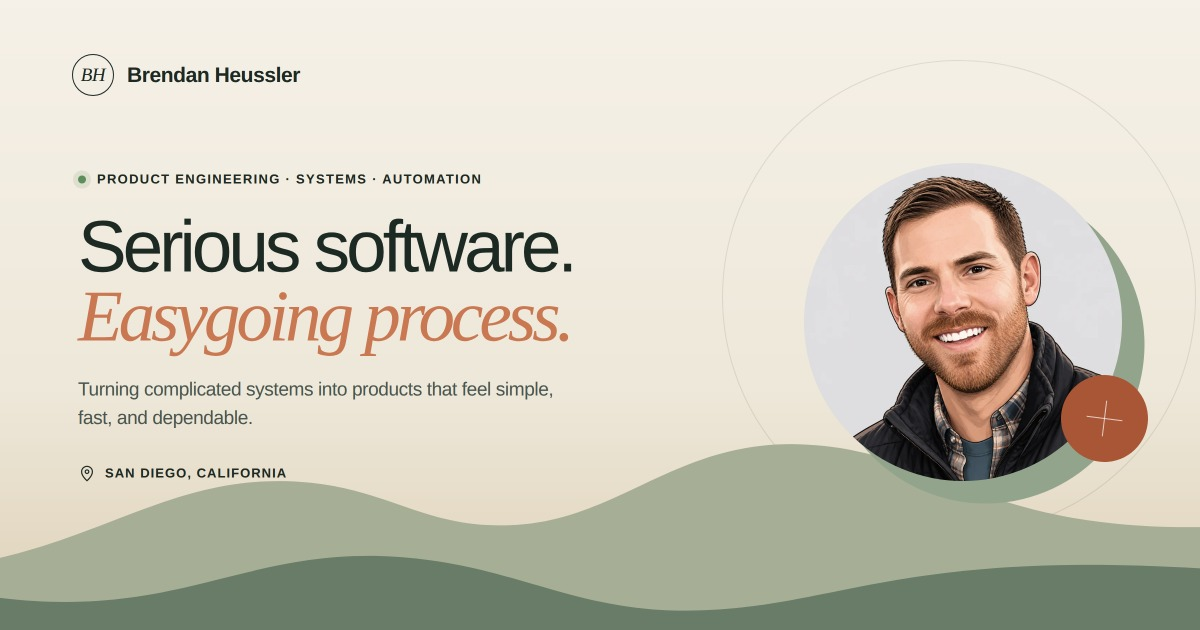
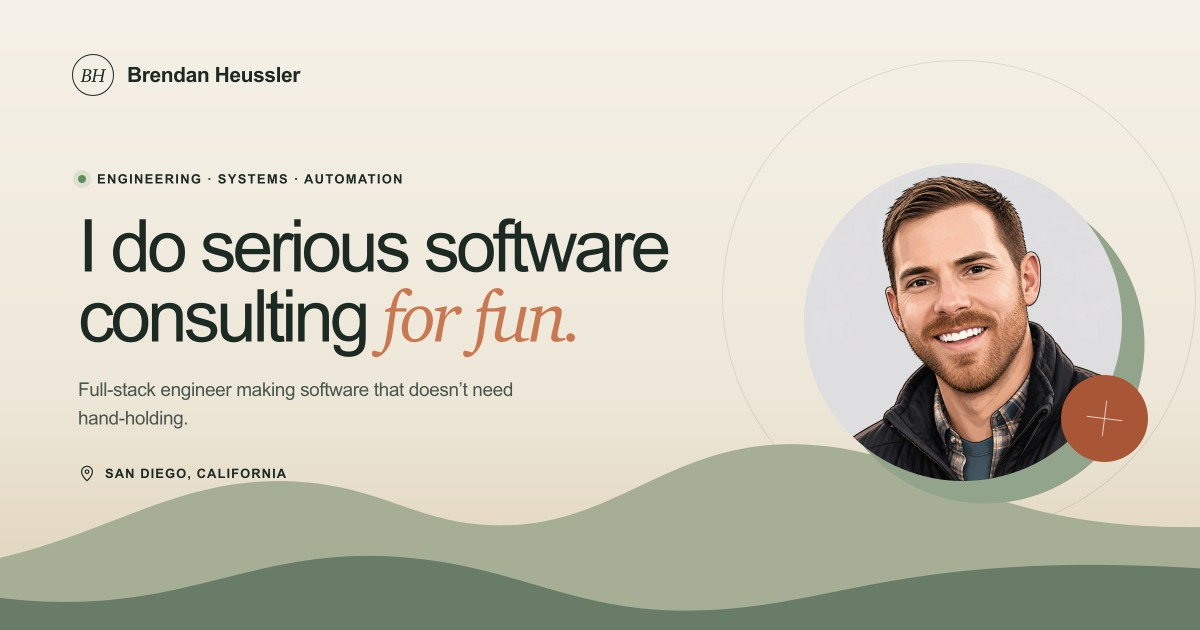
plug in new copy

diff --git a/src/App.jsx b/src/App.jsx
@@ -40,10 +40,9 @@ const TurboTaxVisual = () => (
       </div>
       <div className="tt-list">
         <span className="mini-label">LOCAL TAX HELP</span>
-        <strong>Find an expert nearby</strong>
+        <strong>An easy way to find an expert nearby</strong>
         <span className="skeleton skeleton--long" />
         <span className="skeleton skeleton--short" />
-        <span className="tt-button">Schedule</span>
       </div>
     </div>
   </div>
@@ -210,9 +209,10 @@ const ContactForm = () => {
       onFocus={() => prepareChallenge().catch(() => {})}
       onPointerDown={() => prepareChallenge().catch(() => {})}
     >
+      <p className="section-kicker form-kicker">Go on, tell me</p>
       <div className="form-row">
         <label>
-          <span>Name</span>
+          <span>Your name</span>
           <input type="text" name="name" autoComplete="name" maxLength="100" required />
         </label>
         <label>
@@ -221,11 +221,11 @@ const ContactForm = () => {
         </label>
       </div>
       <label>
-        <span>Company <em>optional</em></span>
+        <span>Your company <em>optional</em></span>
         <input type="text" name="company" autoComplete="organization" maxLength="120" />
       </label>
       <label>
-        <span>What are you working on?</span>
+        <span>Your project</span>
         <textarea name="message" rows="5" minLength="20" maxLength="5000" required />
       </label>
       <label className="form-trap" aria-hidden="true">
@@ -234,7 +234,7 @@ const ContactForm = () => {
       </label>
       <div className="form-submit-row">
         <button className="button button--light" type="submit" disabled={status.type === "working"}>
-          {status.type === "working" ? "Sending…" : "Send message"} <Arrow />
+          {status.type === "working" ? "Sending…" : "Send it"} <Arrow />
         </button>
         <p className={`form-status form-status--${status.type}`} aria-live="polite">
           {status.message}
@@ -266,18 +266,17 @@ export default function App() {
           <div className="hero-inner">
             <div className="availability reveal reveal--one">
               <span className="availability-dot" />
-              Product engineering · Systems · Automation
+              Engineering · Systems · Automation
             </div>
-            <h1 id="hero-title" className="reveal reveal--two">Serious software.<br /><em>Easygoing process.</em></h1>
+            <h1 id="hero-title" className="reveal reveal--two">I do serious software consulting <em>for fun.</em></h1>
             <p className="hero-lede reveal reveal--three">
-              I’m Brendan, a software consultant who turns complicated systems into products that feel simple, fast, and dependable.
+              I’m Brendan, a full-stack engineer obsessed with making software that doesn’t need hand-holding. So I launch seaworthy apps—and sometimes actual boats—in and around San Diego, CA.
             </p>
             <div className="hero-actions reveal reveal--four">
-              <a className="button button--primary" href="#contact">Tell me what you’re building <Arrow /></a>
-              <a className="text-link" href="#work">See selected work <span>↓</span></a>
+              <a className="button button--primary" href="#contact">Work with me <Arrow /></a>
+              <a className="text-link" href="#work">Explore my work <span>↓</span></a>
             </div>
           </div>
-          <div className="hero-location reveal reveal--four"><LocationMark /> San Diego, California</div>
         </section>
 
         <ul className="intro-band" aria-label="What I do">
@@ -290,22 +289,22 @@ export default function App() {
         <section className="work-section" id="work" aria-labelledby="work-title">
           <div className="section-heading">
             <div>
-              <span className="section-kicker">Selected work</span>
-              <h2 id="work-title">Built for people.<br />Engineered to scale.</h2>
+              <span className="section-kicker">What I work on</span>
+              <h2 id="work-title">Web platforms of all sizes<br />for real people of all kinds.</h2>
             </div>
-            <p>From high-traffic customer experiences to focused products, I care about the invisible details that make software hold up.</p>
+            <p>I build everything from high-traffic customer interfaces to hyper-focused personal experiences. And what I care about most is making every one feel flawless.</p>
           </div>
 
           <div className="work-group">
-            <div className="group-label"><span>01</span> Professional work</div>
+            <div className="group-label"><span>01</span> Projects I’ve led</div>
             <ul className="project-grid">
               <ProjectCard
                 number="01"
-                eyebrow="Intuit · TurboTax"
-                title="Local tax help, at national scale."
-                description="A scalable local discovery platform for hundreds of TurboTax stores and thousands of expert profiles—connecting customers with trusted tax help nearby."
+                eyebrow="Intuit · Store locator"
+                title="Behind the scenes of national storefronts."
+                description="What you see: a discovery platform for hundreds of TurboTax stores and thousands of expert profiles. What you don’t: the data that powers it."
                 href="https://turbotax.intuit.com/local-tax-offices/ny/new-york/d51a4afe6691489aa78ee8793a6bc278/"
-                linkLabel="View a live location"
+                linkLabel="See the site"
                 className="project-card--wide"
               >
                 <TurboTaxVisual />
@@ -313,11 +312,11 @@ export default function App() {
 
               <ProjectCard
                 number="02"
-                eyebrow="Certified Pickleball Player"
-                title="A digital home for a fast-growing sport."
-                description="A player platform combining verified credentials, personalized gear, community discovery, and AI-powered match analysis."
+                eyebrow="Certified Pickleball"
+                title="A place for athletes to meet their match."
+                description="This is the hub that gives pickleball players what every fanatic wants: personalized gear, AI-powered match analyses, community access, and proof they’re at the top of their game."
                 href="https://www.certifiedpickleballplayer.com/"
-                linkLabel="Visit the product"
+                linkLabel="Tour the court"
               >
                 <PickleballVisual />
               </ProjectCard>
@@ -325,15 +324,15 @@ export default function App() {
           </div>
 
           <div className="work-group work-group--personal">
-            <div className="group-label"><span>02</span> Personal work</div>
+            <div className="group-label"><span>02</span> Platforms I’ve built</div>
             <ul className="project-grid project-grid--reverse">
               <ProjectCard
                 number="03"
-                eyebrow="Abraham · Trading Algorithm"
-                title="A trading algorithm built on evidence, not instinct."
-                description="An algorithmic trading system that beats the S&amp;P 500 in historical testing, backed by reproducible research and disciplined risk controls."
+                eyebrow="Abraham · Trading"
+                title="A trading system that shows its work."
+                description="Backed by reproducible research and disciplined risk controls, this algorithm uses evidence to beat (basically) every hunch about the S&amp;P 500."
                 href="#contact"
-                linkLabel="Contact me to learn more"
+                linkLabel="Ask for details"
                 className="project-card--contact"
               >
                 <AbrahamVisual />
@@ -341,11 +340,11 @@ export default function App() {
 
               <ProjectCard
                 number="04"
-                eyebrow="GuiltySpark · AI Operations"
+                eyebrow="AI Operations"
                 title="The log monitor that fixes what it finds."
-                description="An autonomous engineering agent that watches production logs, finds bugs in context, and turns incidents into tested fixes."
+                description="With the help of an autonomous engineering agent that watches production logs, finds bugs in context, and corrects errors on sight, you can finally close your eyes."
                 href="https://guiltyspark.builtbybrendan.com/"
-                linkLabel="Explore GuiltySpark"
+                linkLabel="Check it out"
                 className="project-card--wide"
               >
                 <GuiltySparkVisual />
@@ -361,14 +360,15 @@ export default function App() {
             <span className="photo-sun" aria-hidden="true" />
           </div>
           <div className="about-copy">
-            <span className="section-kicker">A little about me</span>
-            <h2 id="about-title">Calm thinking for complicated builds.</h2>
-            <p className="about-lede">I’m a full-stack engineer and consultant based in San Diego, California.</p>
-            <p>I’ve spent my career building software people depend on—from customer experiences at Intuit to lean, ambitious products. I’m at my best when the problem is messy, the stakes are real, and the path forward needs equal parts technical depth and common sense.</p>
+            <span className="section-kicker">A bit about me</span>
+            <h2 id="about-title">A full-stack engineer for your wildest projects.</h2>
+            <p className="about-lede">My friends call me Moose. And when your project is a bear, you need big ideas.</p>
+            <p>That’s why I spend my time building software with the kind of strength, speed, and stealth that’ll surprise you.</p>
+            <p className="section-kicker values-kicker">Rules I play by</p>
             <ul className="about-values">
-              <li><span>01</span><strong>Clear over clever</strong><p>Simple systems are easier to ship, run, and trust.</p></li>
-              <li><span>02</span><strong>Steady under pressure</strong><p>No drama. Just thoughtful decisions and consistent progress.</p></li>
-              <li><span>03</span><strong>Built to last</strong><p>Good architecture should create options, not obligations.</p></li>
+              <li><strong>Look good</strong><p>I think the systems we’re happiest to ship, run, and trust are the ones that are easiest on the eyes.</p></li>
+              <li><strong>Go fast</strong><p>Making consistent, thoughtful decisions can make even the most complex projects feel uncomplicated.</p></li>
+              <li><strong>Hold tight</strong><p>I pay attention to the details that seem small, but add up to a structure scalable products can stand on.</p></li>
             </ul>
           </div>
         </section>
@@ -382,9 +382,9 @@ export default function App() {
           <div className="contact-grid">
             <div className="contact-copy">
               <span className="section-kicker">Contact me</span>
-              <h2 id="contact-title">Let’s make something<br /><em>solid and useful.</em></h2>
-              <p>Tell me a little about the project, the knot you’re trying to untangle, or the idea you can’t quite leave alone.</p>
-              <span className="contact-location"><LocationMark /> San Diego · Working with good people everywhere</span>
+              <h2 id="contact-title">Let’s build the software <em>of your dreams.</em></h2>
+              <p>Tell me a little about the knot you’re trying to untangle, the product you can’t stop thinking about, or the idea you just know the world needs. I’ll take you seriously.</p>
+              <span className="contact-location"><LocationMark /> Based in California · Working with you</span>
             </div>
             <ContactForm />
           </div>

diff --git a/src/styles/site.css b/src/styles/site.css
@@ -88,7 +88,7 @@ svg { display: block; }
   border-radius: 50%;
 }
 
-.hero-inner { position: relative; z-index: 5; max-width: 1440px; margin: 0 auto; padding: clamp(175px, 21vh, 245px) 5vw 0; }
+.hero-inner { position: relative; z-index: 5; max-width: 1440px; margin: 0 auto; padding: clamp(145px, 17vh, 215px) 5vw 0; }
 
 .availability { display: flex; align-items: center; gap: 10px; width: max-content; margin-bottom: 28px; font-size: 12px; font-weight: 600; letter-spacing: .1em; text-transform: uppercase; }
 .availability-dot { width: 7px; height: 7px; border-radius: 50%; background: #5e8e5b; box-shadow: 0 0 0 5px rgba(94, 142, 91, .13); }
@@ -108,13 +108,10 @@ h1, h2, h3, p { margin-top: 0; }
 .text-link span { transition: transform .2s ease; }
 .text-link:hover span { transform: translateY(3px); }
 
-.hero-location { position: absolute; z-index: 5; right: 5vw; bottom: 40px; display: flex; align-items: center; gap: 8px; font-size: 12px; font-weight: 600; letter-spacing: .08em; text-transform: uppercase; }
-.hero-location svg { width: 17px; height: 17px; fill: none; stroke: currentColor; stroke-width: 1.3; }
-
 .landscape { position: absolute; inset: 0; pointer-events: none; }
 .sun { position: absolute; width: clamp(115px, 12vw, 180px); height: clamp(115px, 12vw, 180px); right: 13%; bottom: 21%; border-radius: 50%; background: #d5a468; box-shadow: 0 0 70px rgba(213, 164, 104, .22); }
 .hills { position: absolute; left: 0; width: 100%; }
-.hills--back { bottom: 0; height: 41%; fill: #a7ae96; }
+.hills--back { bottom: 0; height: 35%; fill: #a7ae96; }
 .hills--front { bottom: -3%; height: 31%; fill: #687c68; }
 .trail { position: absolute; right: 9%; bottom: -13%; width: 34%; height: 35%; background: #d2bc91; transform: skewX(-28deg) rotate(-5deg); border-radius: 50% 0 0; opacity: .7; }
 
@@ -169,7 +166,6 @@ a.project-card:hover .project-link svg { transform: translate(3px, -3px); }
 .mini-label { margin-bottom: 20px; color: #6d6d6d; font-size: 8px; letter-spacing: .14em; }
 .tt-list strong { max-width: 190px; margin-bottom: 25px; font-size: clamp(22px, 2vw, 34px); line-height: 1.05; letter-spacing: -.05em; }
 .skeleton { display: block; height: 5px; margin: 0 0 8px; background: #deddd8; }.skeleton--long { width: 90%; }.skeleton--short { width: 62%; }
-.tt-button { width: max-content; margin-top: 24px; padding: 8px 18px; border-radius: 4px; background: #ca292e; color: white; font-size: 9px; font-weight: 600; }
 
 .pickleball-visual { background: #aebc45; }
 .court-lines { position: absolute; inset: 24px; border: 2px solid rgba(247,244,223,.75); }
@@ -210,9 +206,9 @@ a.project-card:hover .project-link svg { transform: translate(3px, -3px); }
 .about-copy h2 { margin-bottom: 35px; }
 .about-copy > p { max-width: 620px; color: #4c5a51; }
 .about-copy .about-lede { color: var(--ink); font-size: 21px; line-height: 1.55; letter-spacing: -.025em; }
-.about-values { display: grid; grid-template-columns: repeat(3, 1fr); gap: 0; margin: 55px 0 0; padding: 0; list-style: none; border-top: 1px solid rgba(29,42,36,.22); }
+.values-kicker { margin: 55px 0 18px; }
+.about-values { display: grid; grid-template-columns: repeat(3, 1fr); gap: 0; margin: 0; padding: 0; list-style: none; border-top: 1px solid rgba(29,42,36,.22); }
 .about-values > li { padding: 22px 20px 0 0; }.about-values > li + li { padding-left: 20px; border-left: 1px solid rgba(29,42,36,.22); }
-.about-values span { display: block; margin-bottom: 35px; color: #59655c; font-family: var(--serif); font-style: italic; }
 .about-values strong { display: block; margin-bottom: 8px; font-size: 14px; }
 .about-values p { margin: 0; color: #505c53; font-size: 12px; line-height: 1.5; }
 
@@ -227,6 +223,7 @@ a.project-card:hover .project-link svg { transform: translate(3px, -3px); }
 .contact-location svg { width: 17px; height: 17px; fill: none; stroke: currentColor; stroke-width: 1.3; }
 .button--light { background: #f6f0e5; color: var(--forest); }.button--light:hover { background: var(--sand); }
 .contact-form { position: relative; padding: 36px; border: 1px solid rgba(231,236,230,.18); background: rgba(15,29,22,.3); backdrop-filter: blur(10px); }
+.contact-form .form-kicker { margin: 0 0 26px; }
 .contact-form label { display: block; margin-bottom: 22px; }
 .contact-form label > span { display: flex; justify-content: space-between; margin-bottom: 7px; color: #d8ded8; font-size: 11px; font-weight: 600; letter-spacing: .08em; text-transform: uppercase; }
 .contact-form label > span em { color: #a5b0a8; font-style: normal; font-weight: 400; }
@@ -243,7 +240,7 @@ a.project-card:hover .project-link svg { transform: translate(3px, -3px); }
 .form-note { margin: 24px 0 0; color: #87948b; font-size: 10px; }
 .contact-landscape { position: absolute; inset: 0; opacity: .7; }
 .contact-sun { position: absolute; top: 19%; right: 12%; width: 120px; height: 120px; border: 1px solid rgba(215,183,131,.4); border-radius: 50%; }
-.contact-hill { position: absolute; bottom: -42%; width: 80%; height: 70%; border: 1px solid rgba(184,194,174,.15); border-radius: 50% 50% 0 0; }
+.contact-hill { position: absolute; bottom: -50%; width: 80%; height: 70%; border: 1px solid rgba(184,194,174,.15); border-radius: 50% 50% 0 0; }
 .contact-hill--one { left: -20%; transform: rotate(9deg); }.contact-hill--two { right: -24%; transform: rotate(-8deg); }
 
 footer { display: flex; align-items: center; justify-content: space-between; min-height: 110px; padding: 25px 5vw; background: #17221d; color: #d8ded8; font-size: 11px; }
@@ -257,7 +254,6 @@ footer > div { display: flex; align-items: center; gap: 22px; } footer > div a:h
   .hero-inner { padding-top: 190px; }
   .hero h1 { font-size: clamp(56px, 11vw, 90px); }
   .sun { right: 8%; bottom: 19%; }
-  .hero-location { bottom: 25px; }
   .intro-band { flex-wrap: wrap; gap: 14px 19px; }
   .section-heading { grid-template-columns: 1fr; gap: 30px; margin-bottom: 80px; }
   .project-grid, .project-grid--reverse { grid-template-columns: 1fr; }
@@ -267,7 +263,6 @@ footer > div { display: flex; align-items: center; gap: 22px; } footer > div a:h
   .about-photo-wrap { --portrait-size: 230px; margin-top: 54px; }
   .about-values { grid-template-columns: 1fr; }
   .about-values > li, .about-values > li + li { padding: 16px 0; border-left: 0; border-bottom: 1px solid rgba(29,42,36,.16); }
-  .about-values span { display: inline-block; margin: 0 12px 0 0; }
   .contact-grid { grid-template-columns: 1fr; gap: 65px; }
   .contact-form { max-width: 620px; }
 }
@@ -282,7 +277,6 @@ footer > div { display: flex; align-items: center; gap: 22px; } footer > div a:h
   .hero h1 { font-size: clamp(51px, 16vw, 76px); line-height: .91; }
   .hero-lede { max-width: 92%; font-size: 17px; }
   .hero-actions { align-items: flex-start; flex-direction: column; gap: 20px; }
-  .hero-location { left: 22px; right: auto; font-size: 10px; }
   .sun { width: 94px; height: 94px; bottom: 14%; }
   .hills--back { height: 28%; }.hills--front { height: 21%; }
   .trail { height: 23%; }

diff --git a/index.html b/index.html
@@ -9,7 +9,7 @@
     <link rel="canonical" href="https://builtbybrendan.com/" />
     <meta name="author" content="Brendan Heussler" />
     <meta property="og:title" content="Brendan Heussler — Software Consultant" />
-    <meta property="og:description" content="Serious software. Easygoing process. Built in San Diego, California." />
+    <meta property="og:description" content="I do serious software consulting for fun. Built in San Diego, California." />
     <meta property="og:type" content="website" />
     <meta property="og:url" content="https://builtbybrendan.com/" />
     <meta property="og:site_name" content="Brendan Heussler" />
@@ -18,12 +18,12 @@
     <meta property="og:image:type" content="image/jpeg" />
     <meta property="og:image:width" content="1200" />
     <meta property="og:image:height" content="630" />
-    <meta property="og:image:alt" content="Brendan Heussler, software consultant in San Diego, California. Serious software. Easygoing process." />
+    <meta property="og:image:alt" content="Brendan Heussler, software consultant in San Diego, California. I do serious software consulting for fun." />
     <meta name="twitter:card" content="summary_large_image" />
     <meta name="twitter:title" content="Brendan Heussler — Software Consultant" />
-    <meta name="twitter:description" content="Serious software. Easygoing process. Built in San Diego, California." />
+    <meta name="twitter:description" content="I do serious software consulting for fun. Built in San Diego, California." />
     <meta name="twitter:image" content="https://builtbybrendan.com/og-image.jpg" />
-    <meta name="twitter:image:alt" content="Brendan Heussler, software consultant in San Diego, California. Serious software. Easygoing process." />
+    <meta name="twitter:image:alt" content="Brendan Heussler, software consultant in San Diego, California. I do serious software consulting for fun." />
     <link rel="icon" href="/favicon.ico" sizes="any" />
     <link rel="icon" type="image/png" sizes="32x32" href="/favicon-32x32.png" />
     <link rel="icon" type="image/png" sizes="16x16" href="/favicon-16x16.png" />

diff --git a/tools/og-image/card.html b/tools/og-image/card.html
@@ -72,9 +72,9 @@
 
   <div class="frame">
     <div class="col">
-      <div class="kicker"><span class="dot"></span>Product engineering · Systems · Automation</div>
-      <h1>Serious software.<br><em>Easygoing process.</em></h1>
-      <p class="lede">Turning complicated systems into products that feel simple, fast, and dependable.</p>
+      <div class="kicker"><span class="dot"></span>Engineering · Systems · Automation</div>
+      <h1>I do serious software<br>consulting <em>for fun.</em></h1>
+      <p class="lede">Full-stack engineer making software that doesn’t need hand&#8209;holding.</p>
       <div class="location">
         <svg viewBox="0 0 20 20"><path d="M10 18s6-5.1 6-10a6 6 0 1 0-12 0c0 4.9 6 10 6 10Z"/><circle cx="10" cy="8" r="2"/></svg>
         San Diego, California
